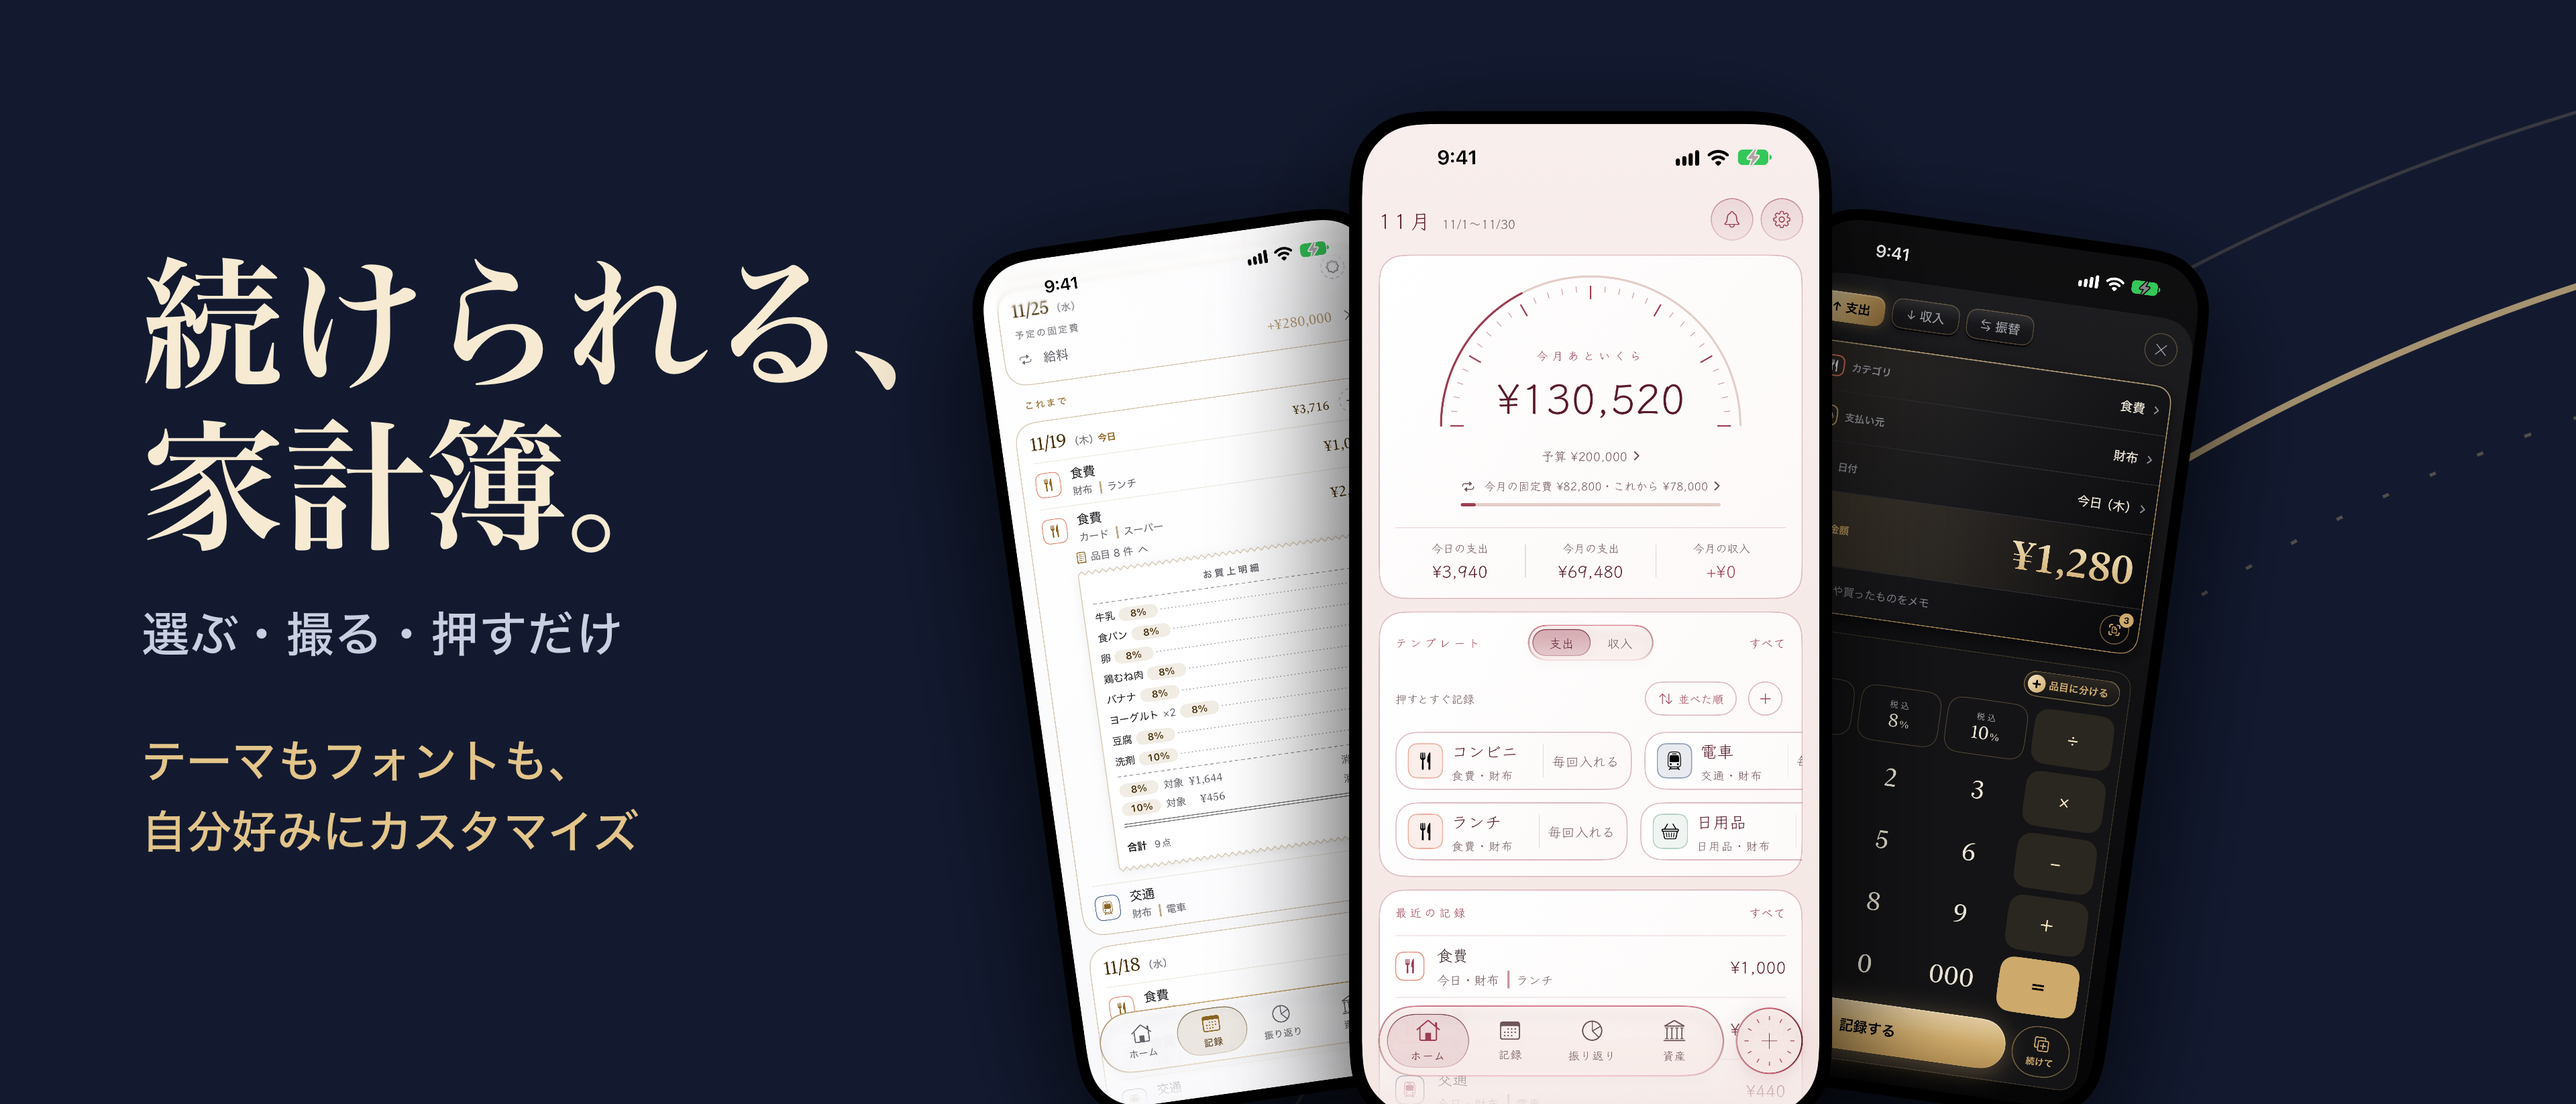
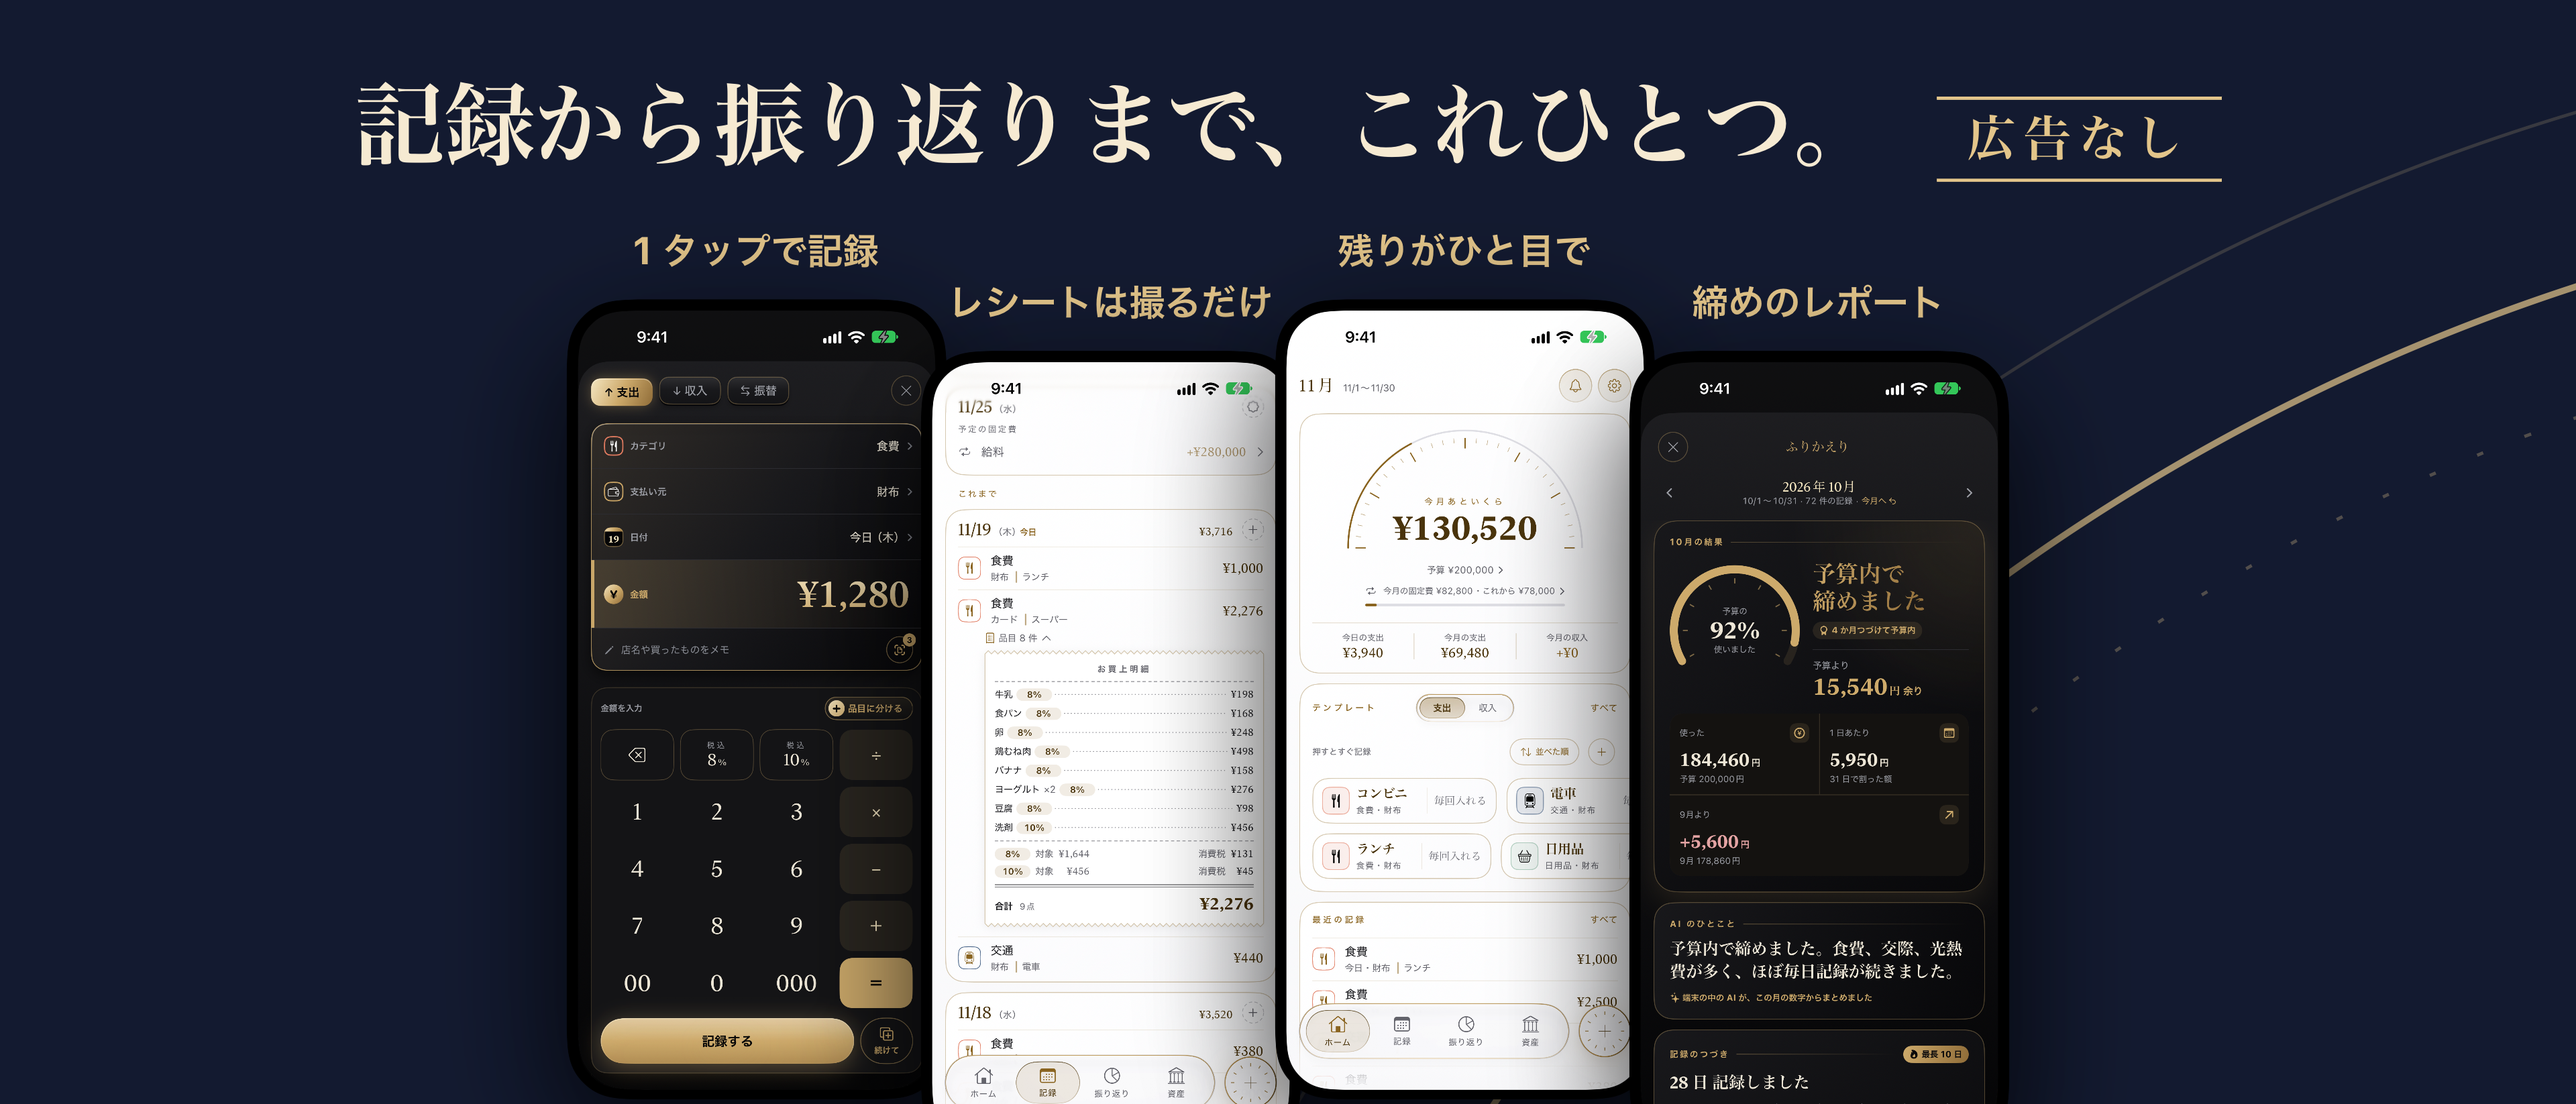
build: retake the search and header images around the budget left
検索結果の画像を「今月あと、いくら使える？」の見出しと、白いホームと締めのレポートの 2 台にする。
ヘッダーは「記録から振り返りまで、これひとつ。」の見出しと 4 台を中央に並べ、左右が切られても欠けにくくする。
検索結果とヘッダーは、別々の組み立てに分ける。

diff --git a/.claude/snapshots/store/SnapshotTests.swift b/.claude/snapshots/store/SnapshotTests.swift
@@ -24,9 +24,9 @@ struct SnapshotTests {
             try Self.write(view, canvas: .phone, to: shot.file)
         }
 
-        let shots = try Self.bannerShots.map(Self.image)
-
         for canvas in [Canvas.header, .search] {
+            let names = canvas == .header ? Self.headerShots : Self.searchShots
+            let shots = try names.map(Self.image)
             let view = StoreBanner(shots: shots, canvas: canvas)
 
             try Self.write(view, canvas: canvas, to: canvas.folder)
@@ -607,67 +607,112 @@ private struct StoreBanner: View {
         let zoom = canvas.size.width / Self.designWidth
         let height = canvas.size.height / zoom
 
-        HStack(spacing: 28) {
-            VStack(alignment: .leading, spacing: 20) {
-                StoreHeadline(
-                    lines: ["続けられる、", "家計簿。"],
-                    lead: .note("選ぶ・撮る・押すだけ"),
-                    scale: 1
-                )
-
-                Text("テーマもフォントも、\n自分好みにカスタマイズ")
-                    .font(.system(size: 15, weight: .medium))
-                    .lineSpacing(4)
-                    .foregroundStyle(StoreInk.accent)
+        content(height: height)
+            .frame(width: Self.designWidth, height: height, alignment: .leading)
+            .background {
+                StoreRings(rings: rings(height: height))
             }
-            .fixedSize()
-
-            phones(height: height)
-        }
-        .padding(.leading, 44)
-        .frame(width: Self.designWidth, height: height, alignment: .leading)
-        .background {
-            StoreRings(rings: rings(height: height))
-        }
-        .background(StoreInk.ground)
-        .clipped()
-        .scaleEffect(zoom, anchor: .topLeading)
-        .frame(width: canvas.size.width, height: canvas.size.height, alignment: .topLeading)
-        .environment(\.colorScheme, .light)
-        .environment(
-            \.themeStyle,
-            ThemeStyle(
-                corner: .standard,
-                displayFont: .mincho,
-                textFont: .gothic,
-                textSize: .standard
+            .background(StoreInk.ground)
+            .clipped()
+            .scaleEffect(zoom, anchor: .topLeading)
+            .frame(width: canvas.size.width, height: canvas.size.height, alignment: .topLeading)
+            .environment(\.colorScheme, .light)
+            .environment(
+                \.themeStyle,
+                ThemeStyle(
+                    corner: .standard,
+                    displayFont: .mincho,
+                    textFont: .gothic,
+                    textSize: .standard
+                )
             )
-        )
     }
 }
 
 private extension StoreBanner {
     static let designWidth: CGFloat = 800
+    static let headerLabels = ["1 タップで記録", "レシートは撮るだけ", "残りがひと目で", "締めのレポート"]
 }
 
 private extension StoreBanner {
-    func phones(height: CGFloat) -> some View {
-        let limit: CGFloat = canvas == .header ? 150 : 200
-        let width = min(height * 0.52, limit)
+    var header: some View {
+        VStack(spacing: 14) {
+            HStack(spacing: 16) {
+                Text("記録から振り返りまで、これひとつ。")
+                    .font(.display(size: 28, weight: .bold, in: .mincho))
+                    .foregroundStyle(StoreInk.title)
 
-        return ZStack(alignment: .top) {
-            phone(shots[1], width: width * 0.86)
-                .rotationEffect(.degrees(-8), anchor: .bottom)
-                .offset(x: -width * 0.62, y: height * 0.2)
+                StoreHeadline(lines: [], lead: .adFree, scale: 0.8)
+            }
+            .fixedSize()
 
-            phone(shots[2], width: width * 0.86)
-                .rotationEffect(.degrees(8), anchor: .bottom)
-                .offset(x: width * 0.62, y: height * 0.2)
+            HStack(alignment: .top, spacing: -8) {
+                ForEach(
+                    Array(zip(Self.headerLabels, shots).enumerated()),
+                    id: \.offset
+                ) { index, item in
+                    VStack(spacing: 8) {
+                        Text(item.0)
+                            .font(.system(size: 12, weight: .bold))
+                            .foregroundStyle(StoreInk.accent)
+                            .fixedSize()
 
-            phone(shots[0], width: width)
-                .offset(y: height * 0.1)
+                        phone(item.1, width: 118)
+                    }
+                    .offset(y: index.isMultiple(of: 2) ? 0 : 16)
+                }
+            }
         }
-        .frame(width: width * 2.4, height: height, alignment: .top)
+        .padding(.top, 22)
+        .frame(width: Self.designWidth, alignment: .top)
+        .frame(maxHeight: .infinity, alignment: .top)
+    }
+
+    @ViewBuilder
+    func content(height: CGFloat) -> some View {
+        switch canvas {
+        case .header:
+            header
+
+        default:
+            search(height: height)
+        }
+    }
+
+    func search(height: CGFloat) -> some View {
+        HStack(spacing: 36) {
+            VStack(alignment: .leading, spacing: 22) {
+                StoreHeadline(
+                    lines: ["今月あと、", "いくら使える？"],
+                    lead: .adFree,
+                    scale: 0.98
+                )
+
+                Text("記録は 1 タップ、レシートは撮るだけ\n月の終わりに、振り返りが届く")
+                    .font(.system(size: 16, weight: .medium))
+                    .lineSpacing(6)
+                    .foregroundStyle(StoreInk.accent)
+            }
+            .fixedSize()
+
+            searchPhones(height: height)
+        }
+        .padding(.leading, 30)
+    }
+
+    func searchPhones(height: CGFloat) -> some View {
+        let width = min(height * 0.4, 210)
+
+        return ZStack(alignment: .topLeading) {
+            phone(shots[0], width: width)
+                .rotationEffect(.degrees(-7), anchor: .bottom)
+                .offset(y: height * 0.08)
+
+            phone(shots[1], width: width * 1.1)
+                .rotationEffect(.degrees(4), anchor: .bottom)
+                .offset(x: width * 0.74, y: height * 0.12)
+        }
+        .frame(width: width * 1.9, height: height, alignment: .topLeading)
     }
 
     func phone(
@@ -771,7 +816,8 @@ private struct Line: Shape {
 
 private extension SnapshotTests {
     static let directory = "__OUT__"
-    static let bannerShots = ["04-theme-rose", "03-receipt", "02-entry-black"]
+    static let searchShots = ["01-home", "08-review-closing-black"]
+    static let headerShots = ["02-entry-black", "03-receipt", "01-home", "08-review-closing-black"]
 
     static let outerPages = [
         Page(
